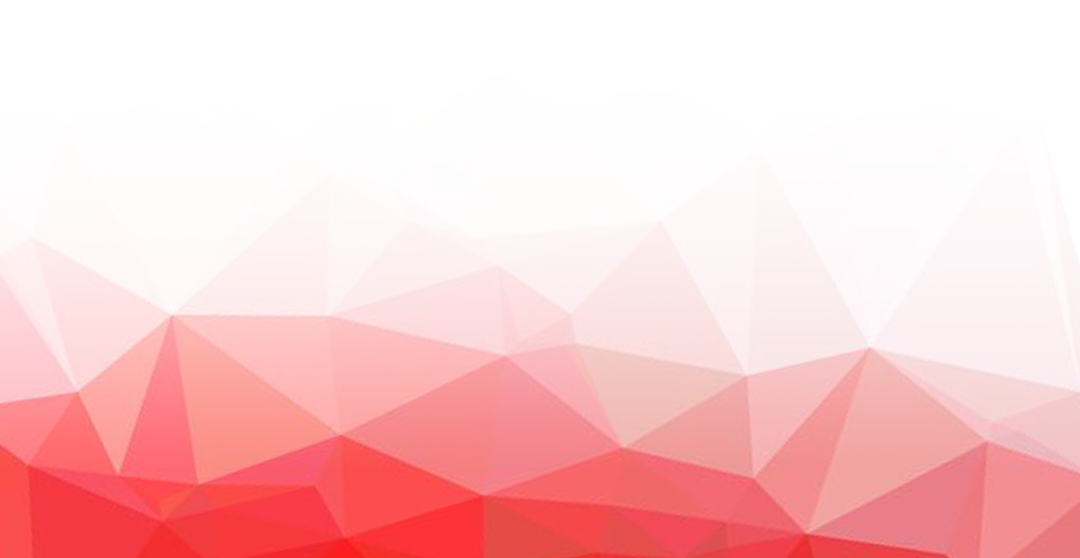
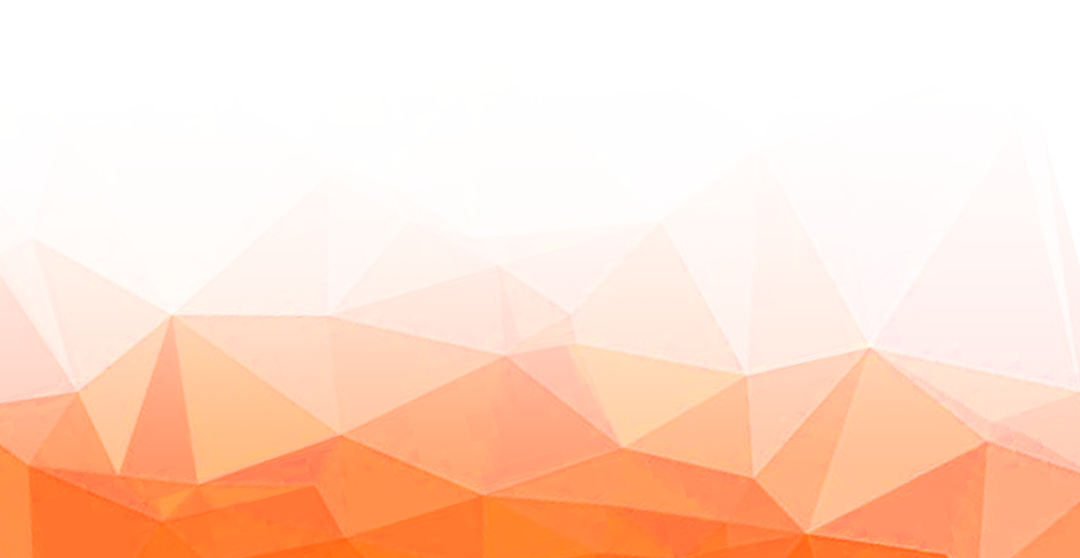
asd

Changed region(s): [[0.0, 0.5789, 1.0, 1.0]]

diff --git a/index.html b/index.html
@@ -306,7 +306,7 @@
 
     /* ── Variabel Warna & Font — ubah di sini untuk ganti tema ── */
     :root {
-      --inv-bg:       #ffffff;
+      --inv-bg:       #e8e3e3;
       --inv-base:     #1B1B1B;
       --inv-accent:   #F38238;
       --inv-border:   #1B1B1B;
